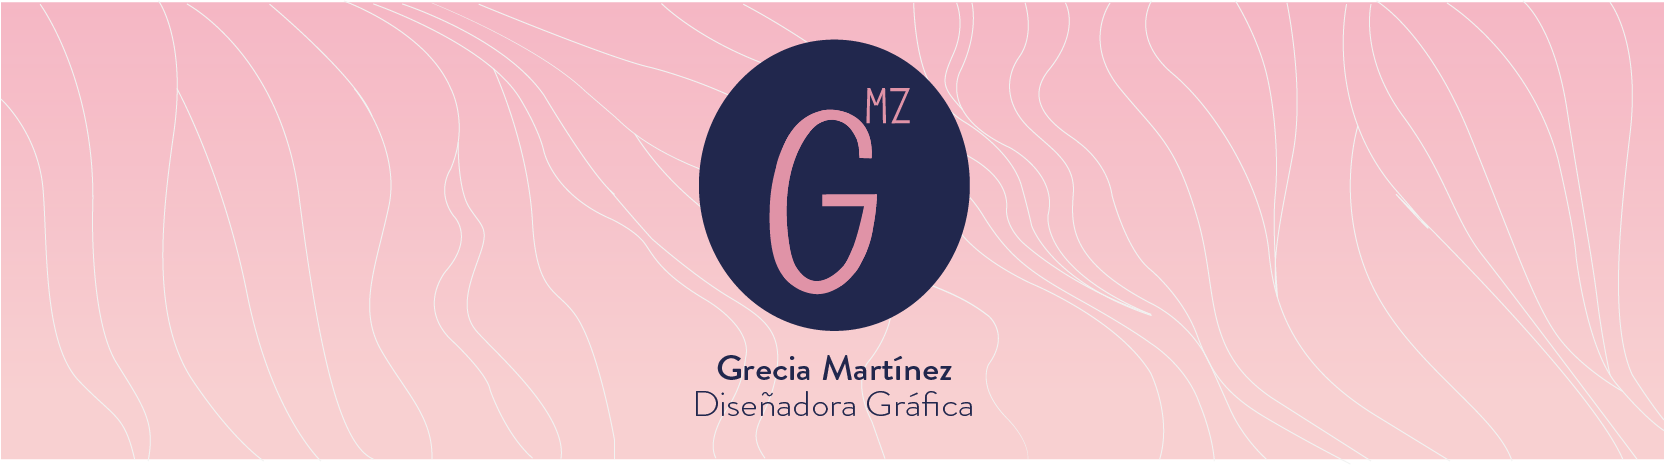
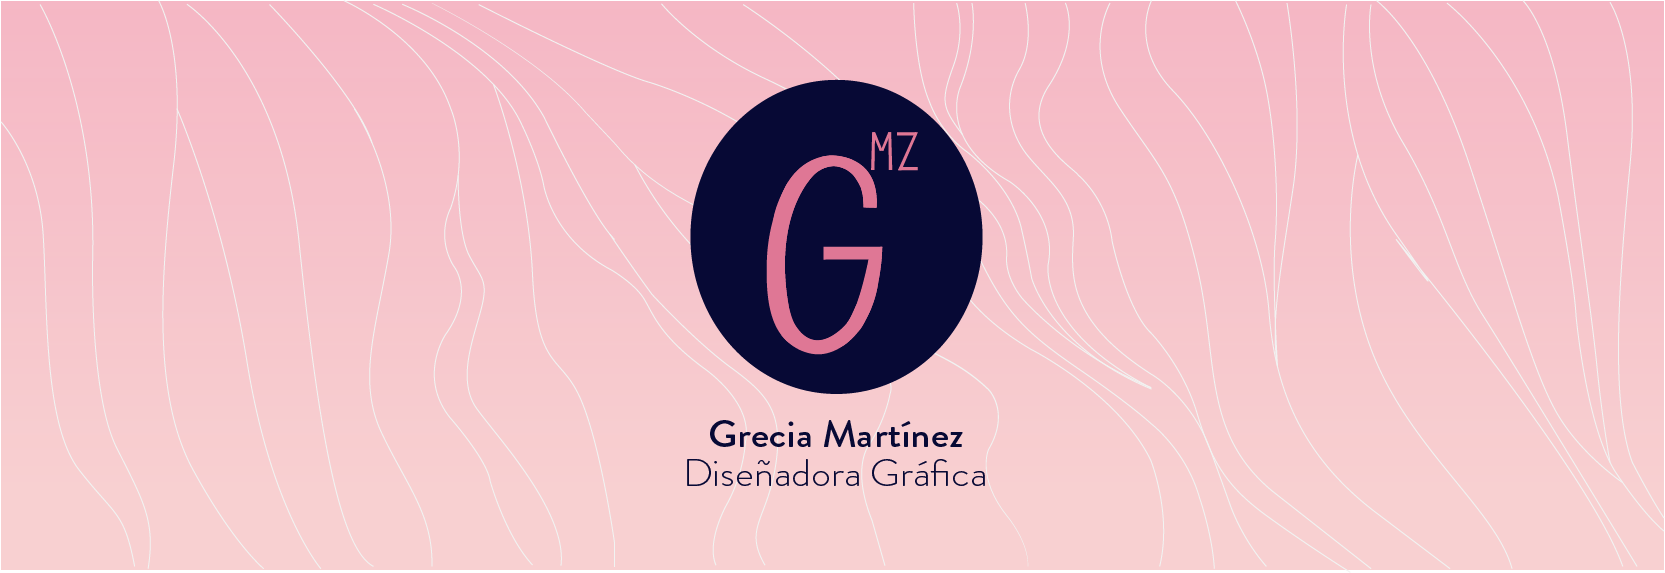
act

Changed region(s): [[0.406, 0.0903, 0.5934, 0.9032], [0.0, 0.9634, 0.9994, 1.0], [0.2186, 0.0, 0.2498, 0.0301]]

diff --git a/views/greciamartinez/Guiado_framework.html b/views/greciamartinez/Guiado_framework.html
@@ -24,7 +24,7 @@
 <body>
 	<header>
 		<nav class="navbar navbar-expand-lg navbar-dark bg-dark">
-			<a class="navbar-brand" href="#">Navbar</a>
+			<a class="navbar-brand" href="#"><img src="../../img/grecia_img/logo.png" alt="" ></a>
 			<button class="navbar-toggler" type="button" 
 			data-toggle="collapse" 
 			data-target="#navbarNav" 
@@ -39,16 +39,16 @@
 						<a class="nav-link" href="#">Home <span class="sr-only">(current)</span></a>
 					</li>
 					<li class="nav-item">
-						<a class="nav-link" href="#Sec1">Features</a>
+						<a class="nav-link" href="#Sec1">Sobre mi</a>
 					</li>
 					<li class="nav-item">
-						<a class="nav-link" href="#">Pricing</a>
+						<a class="nav-link" href="#">Ilustración</a>
 					</li>
 					<li class="nav-item">
-						<a class="nav-link" href="#">Disabled</a>
+						<a class="nav-link" href="#">Fotografía</a>
 					</li>
 					<li class="nav-item">
-						<a class="nav-link" href="#">Contacto</a>
+						<a class="nav-link" href="#">Empaques</a>
 					</li>
 				</ul>
 			</div>
@@ -59,13 +59,13 @@
 			<div id="carouselExampleControls" class="carousel slide" data-ride="carousel">
 				<div class="carousel-inner">
 					<div class="carousel-item active">
-						<img class="d-block w-100" src="../../img/img1.jpg" alt="First slide">
+						<img class="d-block w-100" src="../../img/grecia_img/banner web.png" alt="First slide">
 					</div>
 					<div class="carousel-item">
-						<img class="d-block w-100" src="../../img/img2.jpg"" alt="Second slide">
+						<img class="d-block w-100" src="../../img/grecia_img/banner 3.png"" alt="Second slide">
 					</div>
 					<div class="carousel-item">
-						<img class="d-block w-100" src="../../img/img3.jpg"" alt="Third slide">
+						<img class="d-block w-100" src="../../img/grecia_img/banner 2.png"" alt="Third slide">
 					</div>
 				</div>
 				<a class="carousel-control-prev" href="#carouselExampleControls" role="button" data-slide="prev">
@@ -83,33 +83,33 @@
 			<div class="row">
 			<div class="col-lg-7">
 				<hr>
-				<h1>Titulo 1</h1>
+				<h1>Ilustración</h1>
 				<br>
-				<p class="lead"> Lorem ipsum dolor sit amet, consectetuer adipiscing elit. Aenean commodo ligula eget dolor. Aenean massa. Cum sociis natoque penatibus et magnis dis parturient montes, nascetur ridiculus mus. Donec quam felis, ultricies nec, pellentesque eu, pretium quis, sem. Nulla consequat massa quis enim.</p>
+				<p class="lead"> En esta sección encontraras mis trabajos en ilustración, principalmente orientado a publicaciones infantiles y patterns</p>
 			</div>
 			<div class="col-lg-5">
-				<img src="../../img/ipad.png" class="img-fluid">
+				<img src="../../img/grecia_img/ilus1.jpg" class="img-fluid">
 			</div>
 			</div>
 			<div class="row">
 				<div class="col-lg-5">
-				<img src="../../img/ipad.png" class="img-fluid">
+				<img src="../../img/grecia_img/foto.jpg" class="img-fluid">
 			</div>
 			<div class="col-lg-7">
 				<hr>
-				<h1>Titulo 1</h1>
+				<h1>Fotografía</h1>
 				<br>
-				<p class="lead"> Lorem ipsum dolor sit amet, consectetuer adipiscing elit. Aenean commodo ligula eget dolor. Aenean massa. Cum sociis natoque penatibus et magnis dis parturient montes, nascetur ridiculus mus. Donec quam felis, ultricies nec, pellentesque eu, pretium quis, sem. Nulla consequat massa quis enim.</p>
+				<p class="lead"> Fotografías gastronómicas y de carácter documental.</p>
 			</div>
 			<div class="row">
 			<div class="col-lg-7">
 				<hr>
-				<h1>Titulo 1</h1>
+				<h1>Empaques</h1>
 				<br>
-				<p class="lead"> Lorem ipsum dolor sit amet, consectetuer adipiscing elit. Aenean commodo ligula eget dolor. Aenean massa. Cum sociis natoque penatibus et magnis dis parturient montes, nascetur ridiculus mus. Donec quam felis, ultricies nec, pellentesque eu, pretium quis, sem. Nulla consequat massa quis enim.</p>
+				<p class="lead">En este apartado encontraras los diseños de empaques que he realizado para diferentes marcas.</p>
 			</div>
 			<div class="col-lg-5">
-				<img src="../../img/ipad.png" class="img-fluid">
+				<img src="../../img/grecia_img/empaque.jpg" class="img-fluid">
 			</div>
 			</div>
 

diff --git a/css/grecia/style.css b/css/grecia/style.css
@@ -1,5 +1,5 @@
 @charset "utf-8";
 
 .bg-dark {
-	background-color: #de6727 !important;
+	background-color: #070935 !important;
 }
